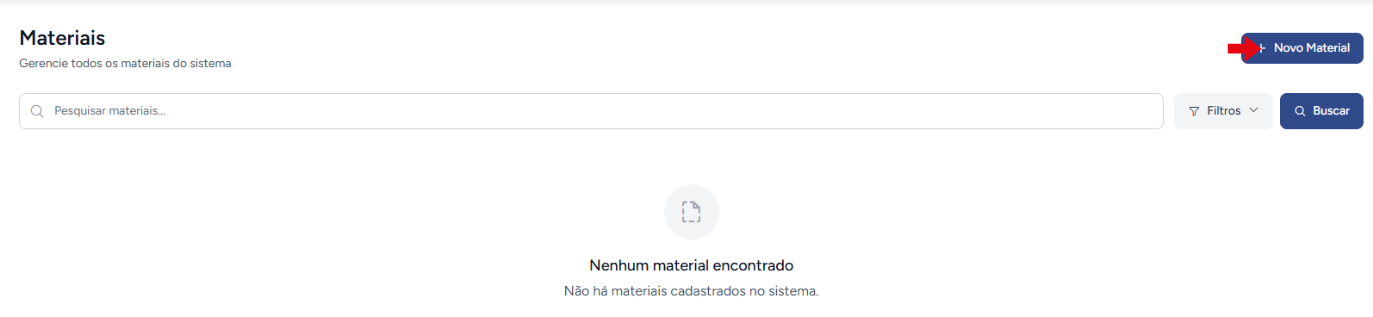
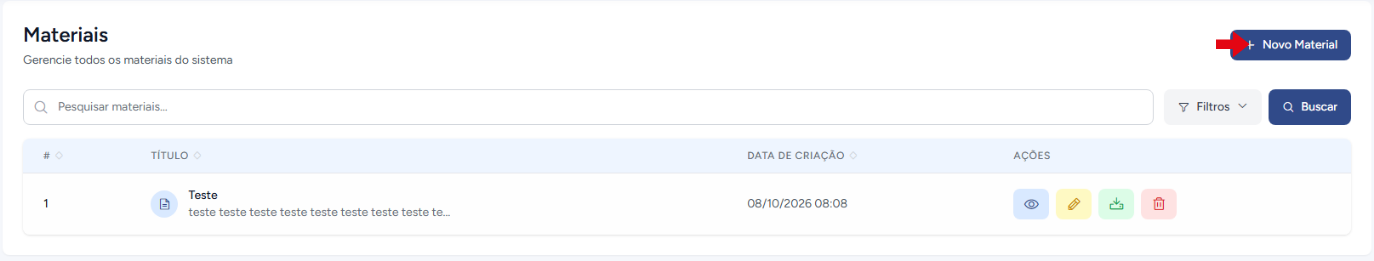
feat: atualizar a seção de ajuda com novas imagens e etapas detalhadas para o gerenciamento de materiais

diff --git a/resources/views/ajuda/index.blade.php b/resources/views/ajuda/index.blade.php
@@ -207,19 +207,81 @@
                             'imagens' => ['help/materiais/create-material-2.png'],
                         ],
                     ]],
-// depois mexer
-                    ['permissao' => 'edit_materiais', 'titulo' => 'Editar Material', 'descricao' => 'Para editar um material, vá até Materiais, abra o material desejado, faça as alterações e salve em "Atualizar Material".', 
-                    'imagem' => 'help/materiais/edit_material.PNG'],
-                    ['permissao' => 'view_materiais', 'titulo' => 'Baixar Material', 'descricao' => 'Abra o material desejado e clique no ícone de download.', 
-                    'imagem' => 'help/materiais/download_material.PNG'],
-                    ['permissao' => 'delete_materiais', 'titulo' => 'Excluir Material', 'descricao' => 'Abra o material desejado, clique em "Excluir Material" e confirme.', 
-                    'imagem' => 'help/materiais/delete_material.PNG'],
-                    ['permissao' => 'delete_materiais', 'titulo' => 'Acessar Materiais Deletados', 'descricao' => 'Para acessar materiais deletados, vá até Materiais, clique no filtro e selecione Apenas Materiais Deletados.', 
-                    'imagem' => 'help/materiais/filtro_material.PNG'],
-                    ['permissao' => 'restore_materiais', 'titulo' => 'Restaurar Materiais Deletados', 'descricao' => 'Para restaurar um material deletado, filtre por materiais deletados, clique no ícone "Restaurar" e confirme a restauração.', 
-                    'imagem' => 'help/materiais/restore_material.PNG'],
+
+                    ['permissao' => 'edit_materiais', 'titulo' => 'Editar Material', 'descricao' => 'Aprenda a editar um material no repositório.',
+                     'passos' => [
+                        [
+                            'titulo' => 'Iniciar edição',
+                            'descricao' => 'Acesse Materiais e clique no material que deseja editar.',
+                            'imagens' => ['help/materiais/edit-material-1.png'],
+                        ],
+                        [
+                            'titulo' => 'Preencher os dados e Finalize a Edição',
+                            'descricao' => 'Preencha os dados do material e clique em "Salvar Alterações" para finalizar a edição.',
+                            'imagens' => ['help/materiais/edit-material-2.png'],
+                        ],
+                    ]],
+                    
+                    ['permissao' => 'view_materiais', 'titulo' => 'Baixar Material', 'descricao' => 'Aprenda a baixar um material no repositório.',
+                     'passos' => [
+                        [
+                            'titulo' => 'Download do material',
+                            'descricao' => 'Acesse Materiais e clique no material que deseja baixar.',
+                            'imagens' => ['help/materiais/download-material-1.png'],
+                        ],
+                    ]],
+                    
+                    ['permissao' => 'delete_materiais', 'titulo' => 'Excluir Material', 'descricao' => 'Aprenda a excluir um material no repositório.',
+                     'passos' => [
+                        [
+                            'titulo' => 'Iniciar exclusão',
+                            'descricao' => 'Acesse Materiais e clique no material que deseja excluir.',
+                            'imagens' => ['help/materiais/delete-material-1.png'],
+                        ],
+                        [
+                            'titulo' => 'Confirme a exclusão',
+                            'descricao' => 'Confirme a exclusão do material.',
+                            'imagens' => ['help/materiais/delete-material-2.png'],
+                        ],
+                    ]],
+
+                    ['permissao' => 'restore_materiais', 'titulo' => 'Restaurar Materiais Deletados', 'descricao' => 'Para restaurar um material deletado, filtre por materiais deletados, clique no ícone "Restaurar" e confirme a restauração.',
+                     'passos' => [
+                        [
+                            'titulo' => 'Acessar Materiais Deletados',
+                            'descricao' => 'Vá até Materiais, clique no filtro e selecione Apenas Materiais Deletados.',
+                            'imagens' => ['help/materiais/restore-material-1.png'],
+                        ],
+                        [
+                            'titulo' => 'Iniciar Restauração',
+                            'descricao' => 'Clique no ícone "Restaurar" ao lado do material que deseja restaurar.',
+                            'imagens' => ['help/materiais/restore-material-2.png'],
+                        ],
+                        [
+                            'titulo' => 'Confirme a Restauração',
+                            'descricao' => 'Confirme a restauração do material.',
+                            'imagens' => ['help/materiais/restore-material-3.png'],
+                        ],
+                    ]],
+
                     ['permissao' => 'force_delete_materiais', 'titulo' => 'Deletar Permanentemente um Material', 'descricao' => 'Para deletar permanentemente um material, filtre por materiais deletados, abra o material desejado, clique em "Deletar Permanentemente" e confirme a exclusão.', 
-                    'imagem' => 'help/materiais/force_delete_material.PNG'],
+                     'passos' => [
+                        [
+                            'titulo' => 'Acessar Materiais Deletados',
+                            'descricao' => 'Vá até Materiais, clique no filtro e selecione Apenas Materiais Deletados.',
+                            'imagens' => ['help/materiais/restore-material-1.png'],
+                        ],
+                        [
+                            'titulo' => 'Iniciar Deleção Permanente',
+                            'descricao' => 'Clique no ícone "Deletar Permanentemente" ao lado do material que deseja deletar.',
+                            'imagens' => ['help/materiais/force-delete-material-1.png'],
+                        ],
+                        [
+                            'titulo' => 'Confirme a Deleção Permanente',
+                            'descricao' => 'Confirme a deleção permanente do material.',
+                            'imagens' => ['help/materiais/force-delete-material-2.png'],
+                        ],
+                    ]],
                 ],
             ],
             [
